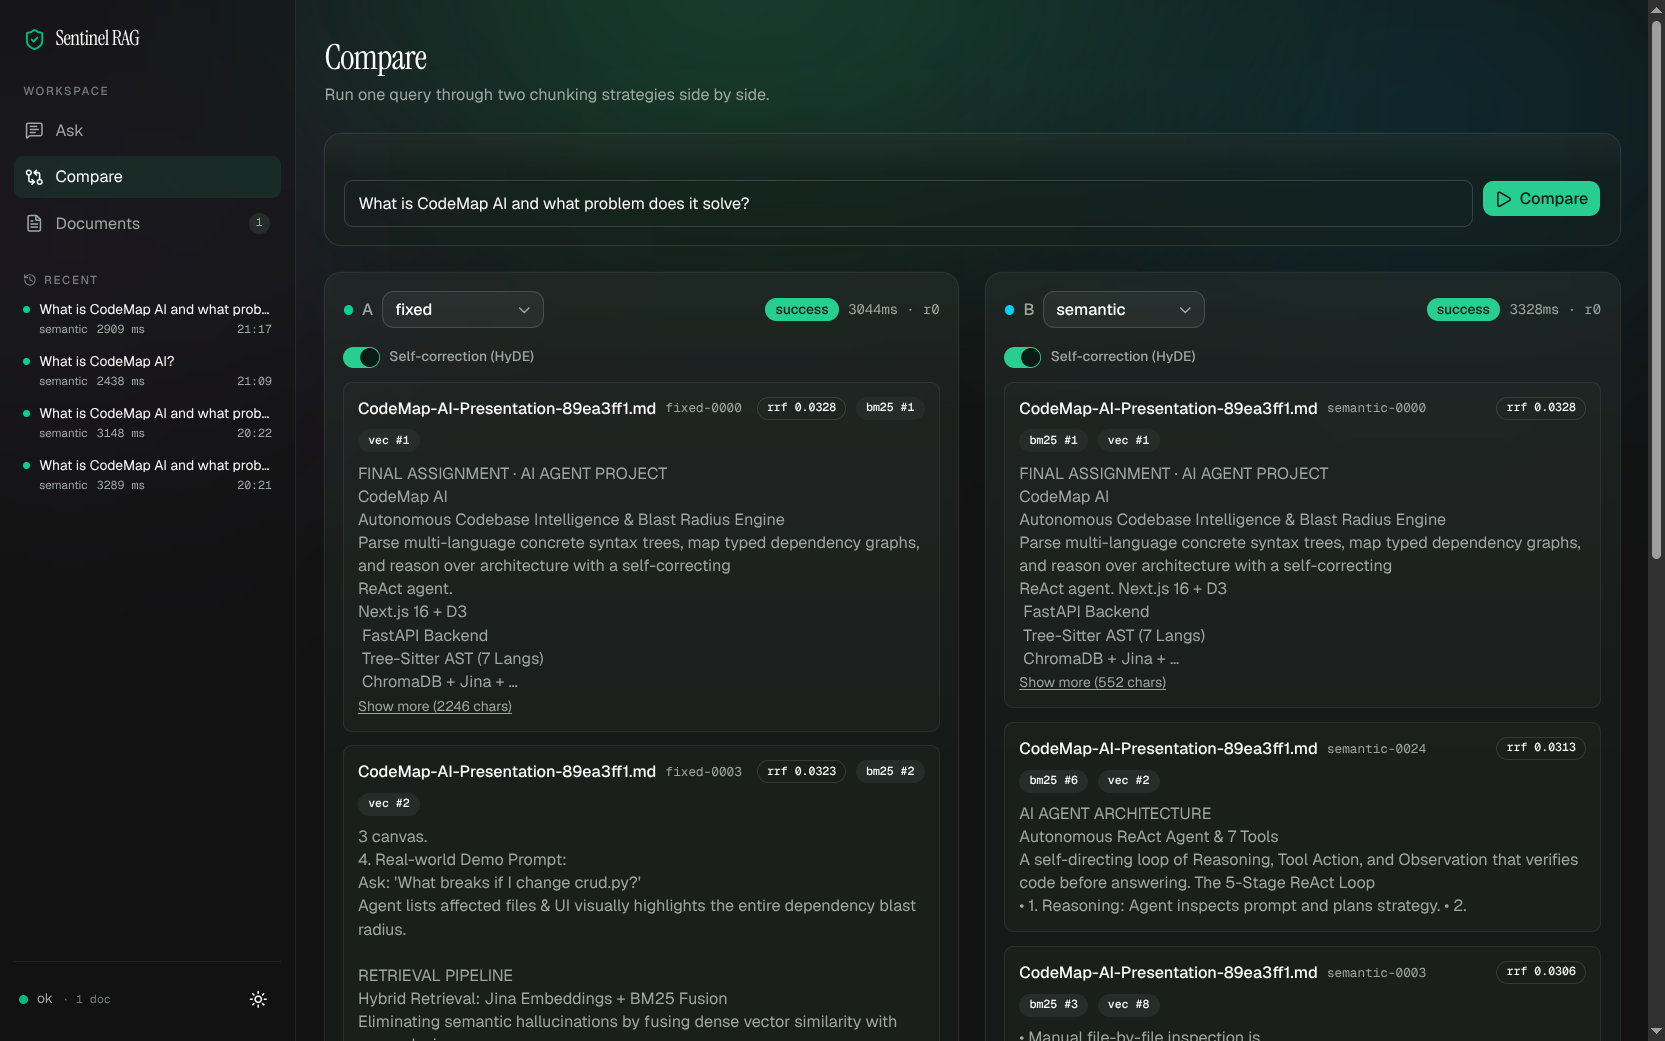
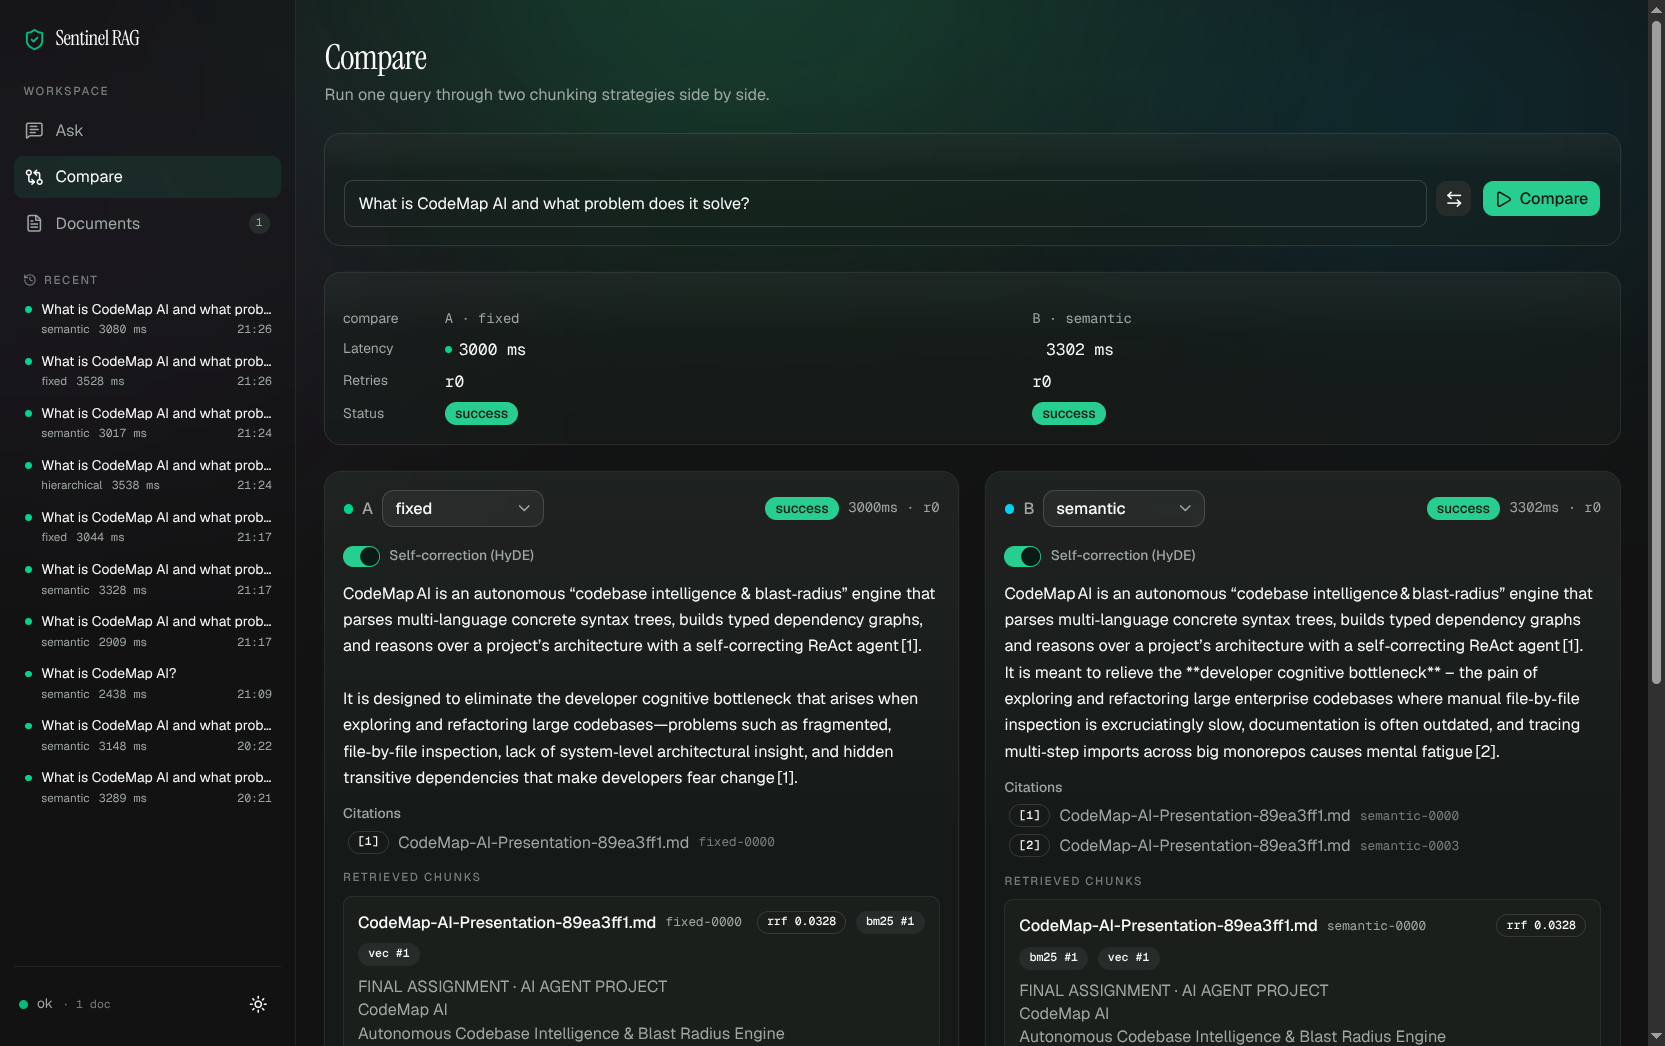
feat(ui): make Compare comparison-first
Put the delta strip above the panels so the verdict is visible before
the evidence, show answers before retrieved chunks, collapse chunks to
140 chars in Compare, and add an A/B swap. Highlight the open trace in
the sidebar and only while Ask is showing it.

diff --git a/frontend/app/strategy/page.tsx b/frontend/app/strategy/page.tsx
@@ -1,7 +1,7 @@
 "use client";
 
 import { useState } from "react";
-import { Loader2, Play, Square } from "lucide-react";
+import { ArrowLeftRight, Loader2, Play, Square } from "lucide-react";
 import { Button } from "@/components/ui/button";
 import { Card, CardContent, CardHeader, CardTitle } from "@/components/ui/card";
 import { Badge } from "@/components/ui/badge";
@@ -50,6 +50,15 @@ export default function StrategyLab() {
     ]);
   }
 
+  function swap() {
+    setLeft(right);
+    setRight(left);
+    setLeftCorrection(rightCorrection);
+    setRightCorrection(leftCorrection);
+    leftStream.reset();
+    rightStream.reset();
+  }
+
   return (
     <div className="mx-auto max-w-6xl px-4 py-8">
       <PageHeader
@@ -68,6 +77,17 @@ export default function StrategyLab() {
               placeholder="Ask something about your documents…"
               className="h-10 flex-1 rounded-md border border-input bg-transparent px-3 text-sm outline-none focus-visible:ring-2 focus-visible:ring-ring"
             />
+            <Button
+              type="button"
+              variant="secondary"
+              size="icon"
+              onClick={swap}
+              disabled={running}
+              aria-label="Swap A and B"
+              title="Swap A and B"
+            >
+              <ArrowLeftRight className="h-4 w-4" />
+            </Button>
             <Button onClick={runBoth} disabled={running || !query.trim()}>
               {running ? (
                 <Loader2 className="h-4 w-4 animate-spin" />
@@ -79,6 +99,13 @@ export default function StrategyLab() {
           </div>
         </CardContent>
       </Card>
+
+      {(leftStream.final || rightStream.final) && (
+        <DeltaStrip
+          a={{ label: left, trace: leftStream.final }}
+          b={{ label: right, trace: rightStream.final }}
+        />
+      )}
 
       <div className="grid gap-6 lg:grid-cols-2">
         <Panel
@@ -114,13 +141,6 @@ export default function StrategyLab() {
           disabled={running}
         />
       </div>
-
-      {leftStream.final && rightStream.final && (
-        <DeltaStrip
-          a={{ label: left, trace: leftStream.final }}
-          b={{ label: right, trace: rightStream.final }}
-        />
-      )}
     </div>
   );
 }
@@ -130,18 +150,22 @@ function DeltaStrip({
   a,
   b,
 }: {
-  a: { label: string; trace: Trace };
-  b: { label: string; trace: Trace };
+  a: { label: string; trace: Trace | null };
+  b: { label: string; trace: Trace | null };
 }) {
   const entries = [
     { key: "A", label: a.label, trace: a.trace },
     { key: "B", label: b.label, trace: b.trace },
   ];
   const fastest =
-    a.trace.total_latency_ms <= b.trace.total_latency_ms ? "A" : "B";
+    a.trace && b.trace
+      ? a.trace.total_latency_ms <= b.trace.total_latency_ms
+        ? "A"
+        : "B"
+      : null;
 
   return (
-    <Card className="mt-6">
+    <Card className="mb-6">
       <CardContent className="grid grid-cols-[4.5rem_1fr_1fr] items-center gap-x-4 gap-y-2 pt-4 text-sm">
         <span className="text-xs text-muted-foreground">compare</span>
         {entries.map((e) => (
@@ -159,7 +183,7 @@ function DeltaStrip({
                 fastest === e.key ? "bg-emerald-400" : "bg-transparent"
               }`}
             />
-            {e.trace.total_latency_ms} ms
+            {e.trace ? `${e.trace.total_latency_ms} ms` : "—"}
             {fastest === e.key && <span className="sr-only">fastest</span>}
           </span>
         ))}
@@ -167,26 +191,32 @@ function DeltaStrip({
         <span className="text-xs text-muted-foreground">Retries</span>
         {entries.map((e) => (
           <span key={e.key} className="font-mono">
-            r{e.trace.retries}
+            {e.trace ? `r${e.trace.retries}` : "—"}
           </span>
         ))}
 
         <span className="text-xs text-muted-foreground">Status</span>
-        {entries.map((e) => (
-          <Badge
-            key={e.key}
-            variant={
-              e.trace.final_status === "success"
-                ? "default"
-                : e.trace.final_status === "not_found"
-                  ? "secondary"
-                  : "destructive"
-            }
-            className="w-fit"
-          >
-            {e.trace.final_status}
-          </Badge>
-        ))}
+        {entries.map((e) =>
+          e.trace ? (
+            <Badge
+              key={e.key}
+              variant={
+                e.trace.final_status === "success"
+                  ? "default"
+                  : e.trace.final_status === "not_found"
+                    ? "secondary"
+                    : "destructive"
+              }
+              className="w-fit"
+            >
+              {e.trace.final_status}
+            </Badge>
+          ) : (
+            <span key={e.key} className="text-xs text-muted-foreground">
+              running…
+            </span>
+          ),
+        )}
       </CardContent>
     </Card>
   );
@@ -302,9 +332,6 @@ function Panel({
             {state.steps.at(-1)?.action ?? "starting"}…
           </p>
         )}
-        {chunks.map((c) => (
-          <ChunkCard key={c.chunk_id} chunk={c} />
-        ))}
         {generation?.answer && (
           <AnswerPanel answer={generation.answer} citations={generation.citations} />
         )}
@@ -321,6 +348,16 @@ function Panel({
                 {fallbackLabel(state.final.fallback_reason)}
               </p>
             )}
+          </div>
+        )}
+        {chunks.length > 0 && (
+          <div className="space-y-2">
+            <p className="text-[10px] font-medium uppercase tracking-[0.14em] text-muted-foreground/70">
+              Retrieved chunks
+            </p>
+            {chunks.map((c) => (
+              <ChunkCard key={c.chunk_id} chunk={c} compact />
+            ))}
           </div>
         )}
       </CardContent>

diff --git a/frontend/components/app-shell.tsx b/frontend/components/app-shell.tsx
@@ -38,6 +38,7 @@ export function AppShell({ children }: { children: React.ReactNode }) {
   const [health, setHealth] = useState<Health | null>(null);
   const [down, setDown] = useState(false);
   const [traces, setTraces] = useState<TraceSummary[] | null>(null);
+  const [activeTrace, setActiveTrace] = useState<string | null>(null);
 
   useEffect(() => {
     let active = true;
@@ -73,18 +74,25 @@ export function AppShell({ children }: { children: React.ReactNode }) {
         .catch(() => {});
     load();
     const refresh = () => load();
+    const onActive = (e: Event) => {
+      setActiveTrace((e as CustomEvent<string | null>).detail ?? null);
+    };
     window.addEventListener("sentinel:trace", refresh);
+    window.addEventListener("sentinel:active-trace", onActive);
     const id = setInterval(refresh, 30000);
     return () => {
       active = false;
       clearInterval(id);
       window.removeEventListener("sentinel:trace", refresh);
+      window.removeEventListener("sentinel:active-trace", onActive);
     };
   }, [pathname]);
 
   const healthy = !down && !!health && health.status === "ok" && health.indexes_ok;
   const dot = down ? "bg-red-500" : healthy ? "bg-emerald-500" : "bg-amber-500";
   const docs = health?.corpus_size ?? null;
+  // A trace is "open" only while the Ask page is showing it.
+  const currentTrace = pathname === "/" ? activeTrace : null;
 
   const workspaceLinks = (compact = false) =>
     WORKSPACES.map((item) => {
@@ -168,7 +176,13 @@ export function AppShell({ children }: { children: React.ReactNode }) {
               <Link
                 key={t.id}
                 href={`/?trace=${t.id}`}
-                className="block rounded-md px-2 py-1.5 transition-colors hover:bg-muted/60"
+                onClick={() => setActiveTrace(t.id)}
+                aria-current={currentTrace === t.id ? "true" : undefined}
+                className={`block rounded-md border-l-2 px-2 py-1.5 transition-colors hover:bg-muted/60 ${
+                  currentTrace === t.id
+                    ? "border-l-primary bg-muted/70"
+                    : "border-l-transparent"
+                }`}
               >
                 <span className="flex items-center gap-2">
                   <span

diff --git a/frontend/app/page.tsx b/frontend/app/page.tsx
@@ -62,7 +62,12 @@ function AskView() {
 
   // A sidebar history link arrives as /?trace=<id>: load it into the same panel.
   useEffect(() => {
-    if (!traceId) return;
+    if (!traceId) {
+      window.dispatchEvent(
+        new CustomEvent("sentinel:active-trace", { detail: null }),
+      );
+      return;
+    }
     let active = true;
     getTrace(traceId)
       .then((trace) => {
@@ -72,6 +77,9 @@ function AskView() {
         setStrategy(trace.strategy);
         setCorrection(trace.correction_enabled);
         setHighlight(null);
+        window.dispatchEvent(
+          new CustomEvent("sentinel:active-trace", { detail: traceId }),
+        );
       })
       .catch((e) => {
         if (active) setError((e as Error).message);
@@ -87,6 +95,7 @@ function AskView() {
 
   async function runQuery() {
     if (traceId) router.replace("/");
+    window.dispatchEvent(new CustomEvent("sentinel:active-trace", { detail: null }));
     try {
       await run({ query, strategy, correction_enabled: correction });
     } finally {

diff --git a/frontend/components/chunk-card.tsx b/frontend/components/chunk-card.tsx
@@ -5,18 +5,22 @@ import { Badge } from "@/components/ui/badge";
 import type { Chunk } from "@/lib/types";
 
 const SNIPPET = 320;
+const COMPACT_SNIPPET = 140;
 
 export function ChunkCard({
   chunk,
   highlighted = false,
+  compact = false,
 }: {
   chunk: Chunk;
   highlighted?: boolean;
+  compact?: boolean;
 }) {
   const [expanded, setExpanded] = useState(false);
   const text = chunk.context || chunk.text || "";
-  const long = text.length > SNIPPET;
-  const shown = expanded || !long ? text : `${text.slice(0, SNIPPET)}…`;
+  const snippet = compact ? COMPACT_SNIPPET : SNIPPET;
+  const long = text.length > snippet;
+  const shown = expanded || !long ? text : `${text.slice(0, snippet)}…`;
 
   return (
     <div

diff --git a/make_deck.py b/make_deck.py
@@ -455,7 +455,7 @@ notes(s, "The Demo Walkthrough:\n"
          "1. Query 1 demonstrates the fast path: Instant retrieval and citation.\n"
          "2. Query 2 demonstrates our flagship feature: Self-correction. The amber card will pulse on screen.\n"
          "3. Query 3 proves no hallucinations: The system gracefully admits it cannot answer out-of-domain financial data.\n"
-         "4. Query 4 demonstrates the Compare side-by-side comparison.")
+         "4. Query 4 demonstrates the side-by-side comparison on the Compare page.")
 
 # ==============================================================================
 # SLIDE 16: Engineering Reliability

diff --git a/build_plain_english_guide.py b/build_plain_english_guide.py
@@ -434,7 +434,7 @@ html_content = f"""<!DOCTYPE html>
 
 <div class="figure">
   <img src="{img_strategy}" alt="Compare">
-  <div class="caption">Figure 3: Compare comparing Fixed Window vs Hierarchical chunking side by side.</div>
+  <div class="caption">Figure 3: Compare, showing Fixed Window vs Hierarchical chunking side by side.</div>
 </div>
 
 <!-- CHAPTER 6 -->
